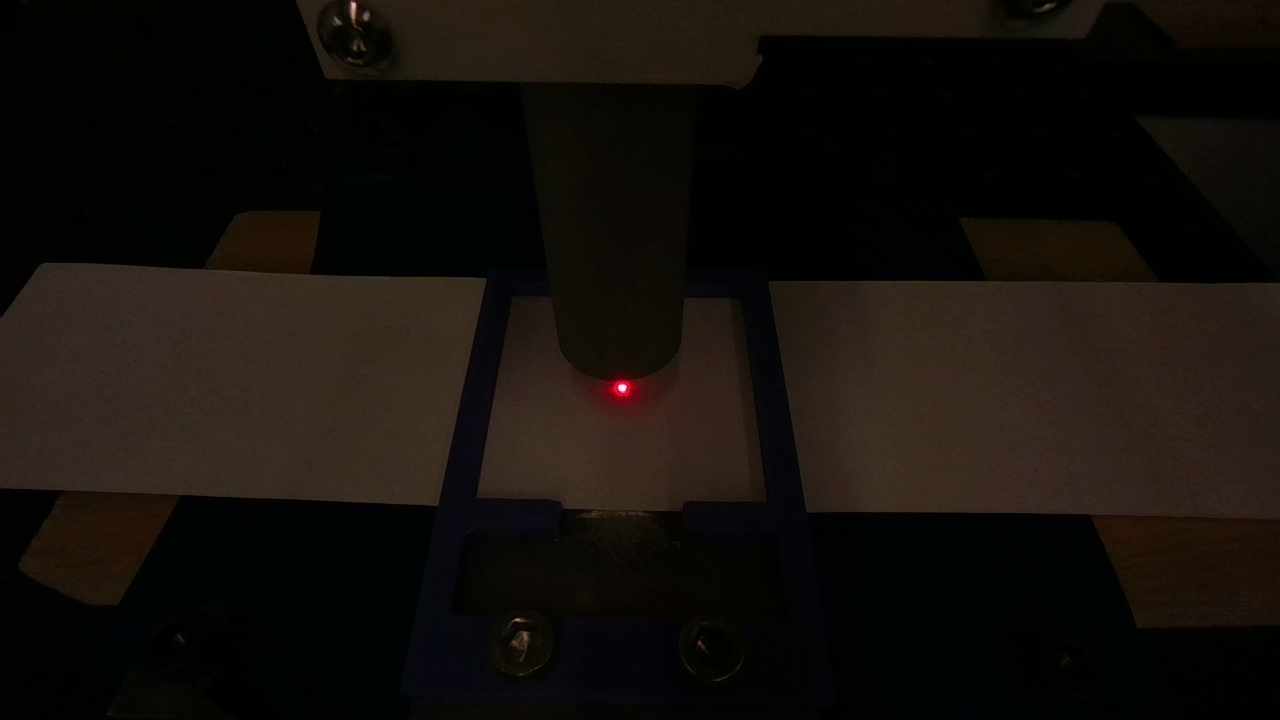
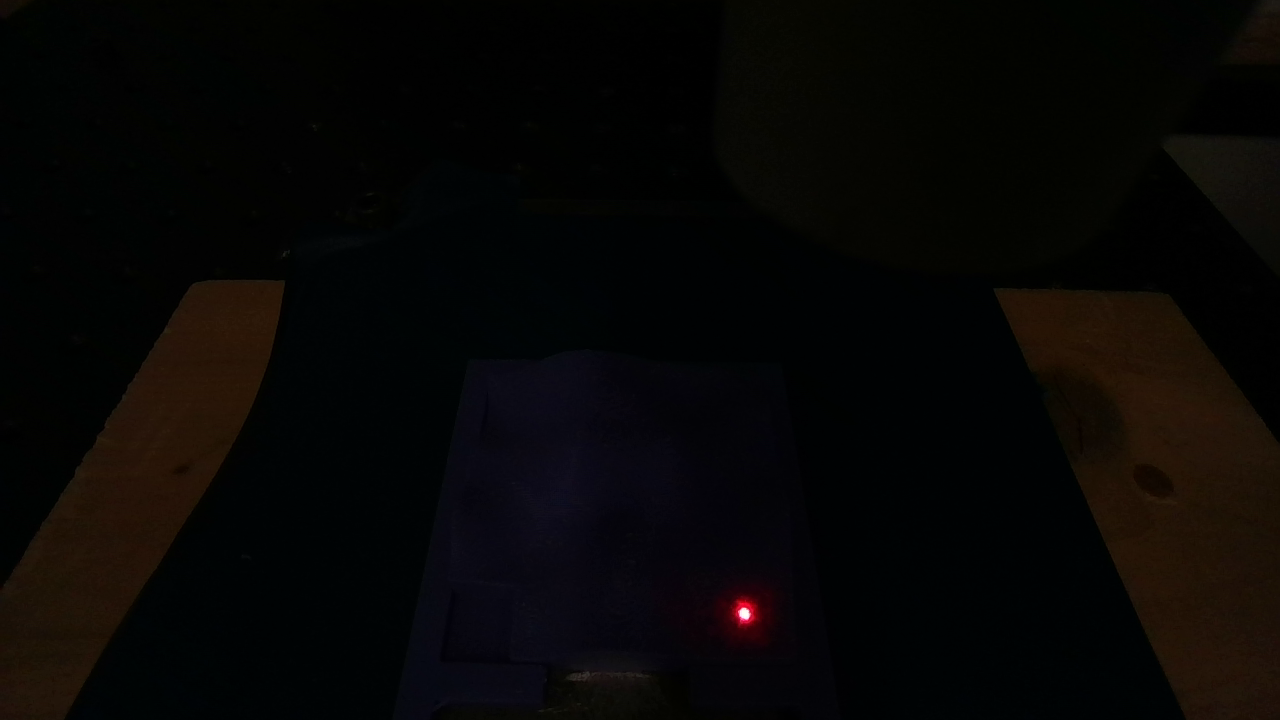
Focal Distance

diff --git a/surgical_system/py_src/focal_distance.py b/surgical_system/py_src/focal_distance.py
@@ -105,11 +105,19 @@ def main():
     # Setup all communication with hardware 
     camera_reg = setup()
 
+    # Create grid of 9x9 points on 50 x 50 mm block
+    gridSize = np.array([9, 9])
+    xPoints = (np.arange(gridSize[0]) - (gridSize[0] - 1) / 2) * 0.005
+    yPoints = (np.arange(gridSize[1]) - (gridSize[1] - 1) / 2) * 0.005
+    xValues, yValues = np.meshgrid(xPoints, yPoints)
+
     # Calculate the trajectory (moving downwards in z direction)
-    # TODO: Starting point is negative relative to "home position" for scanning
-    heights = np.arange(-0.06, 0.000, 0.001) #m
-    robot_path = np.zeros((len(heights), 3))
-    robot_path[:,2] = heights
+    # FIXME: Starting point is negative relative to home position csv for scanning
+    numPoints = gridSize[0] * gridSize[1]
+    heights = np.linspace(-0.06, 0.06, numPoints) #m
+    robot_path = np.hstack((xValues.reshape((-1, 1)), 
+                                    yValues.reshape((-1, 1)), 
+                                    heights.reshape((-1, 1))))
     traj = camera_reg.robot_controller.create_custom_trajectory(robot_path, 0.01)
 
     # Send robot to starting position (first point in trajectory)
@@ -129,28 +137,32 @@ def main():
         robot_pose[:3,-1] = robot_path[i, :]
         camera_reg.robot_controller.go_to_pose(robot_pose @ camera_reg.robot_controller.home_pose)
 
-        # Ensure robot is no longer moving before taking image (overkill)
-        time.sleep(0.25)
+        # Fire the laser (1/2 second)
+        camera_reg.fireLaser()
         
-        # Get RGB camera image
-        color_img = camera_reg.rgbd_cam.get_latest()['color']
-        # Determine diameter of laser spot
-        diameter = get_spot_diameter(color_img)
-        diameters[i] = diameter
+        # TODO/FIXME: Measure diameters of laser's aiming beam
+        # # Get RGB camera image 
+        # color_img = camera_reg.rgbd_cam.get_latest()['color']
+        # # Determine diameter of laser spot
+        # diameter = get_spot_diameter(color_img)
+        # diameters[i] = diameter
 
-    # Determine the focal distance based on smallest diameter and its corresponding height
-    min_diameter_idx = np.nanargmin(diameters)
-    min_diamter = diameters[min_diameter_idx]
-    focal_distance = heights[min_diameter_idx]
-    print(f"Focal distance is: {focal_distance} m with beam waist diameter of: {min_diamter} pixels")
-
-    # Simple plot of findings
-    laser_heights = (heights + 0.08) * 1000
-    plt.scatter(laser_heights, diameters)
-    plt.xlabel("Laser Height (mm)")
-    plt.ylabel("Diameter (pixels)")
-    plt.title("Laser Height vs. Laser Spot Diameter")
-    plt.savefig("laser_height_vs_diameter.png")
+    # Measure diameters of burn marks!!!
+    color_img = camera_reg.rgbd_cam.get_latest()['color']
+    
+    # TODO/FIXME: For measuring diameters of laser's aiming beam
+    # # Determine the focal distance based on smallest diameter and its corresponding height
+    # min_diameter_idx = np.nanargmin(diameters)
+    # min_diamter = diameters[min_diameter_idx]
+    # focal_distance = heights[min_diameter_idx]
+    # print(f"Focal distance is: {focal_distance} m with beam waist diameter of: {min_diamter} pixels")
+    # # Simple plot of findings
+    # laser_heights = (heights + 0.08) * 1000
+    # plt.scatter(laser_heights, diameters)
+    # plt.xlabel("Laser Height (mm)")
+    # plt.ylabel("Diameter (pixels)")
+    # plt.title("Laser Height vs. Laser Spot Diameter")
+    # plt.savefig("laser_height_vs_diameter.png")
 
 if __name__ == "__main__":
     main()

diff --git a/surgical_system/py_src/registration/transformations/depth_estimation.py b/surgical_system/py_src/registration/transformations/depth_estimation.py
@@ -323,7 +323,7 @@ class DepthEstimation():
 
     @staticmethod
     def create_dense_stack(homography_stack: dict,
-                        dz: float = 0.0001, # m
+                        dz: float = 0.00001, # m
                         extrapolate: bool = False):
 
         """
@@ -723,17 +723,17 @@ class DepthEstimation():
 
         # Extract X,Y,Z coordinates of points in STL file 
         # TODO/FIXME: point to CAD model stl file to compare to & register properly
-        mesh = trimesh.load("surgical_system/py_src/image_development/nine_peaks_3.stl")
+        mesh = trimesh.load("surgical_system/py_src/image_development/hills_5.stl")
         mesh.apply_scale(0.001)  # scale from mm to m 
-        # Rotate STL file about z axis -90 degrees to align with recon (nine peaks STLs)
-        angle = -np.pi/2
-        T = np.array([
-            [np.cos(angle), -np.sin(angle), 0, 0],
-            [np.sin(angle),  np.cos(angle), 0, 0],
-            [0,              0,             1, 0],
-            [0,              0,             0, 1]
-        ])
-        mesh.apply_transform(T)
+        # # Rotate STL file about z axis -90 degrees to align with recon (nine peaks STLs)
+        # angle = -np.pi/2
+        # T = np.array([
+        #     [np.cos(angle), -np.sin(angle), 0, 0],
+        #     [np.sin(angle),  np.cos(angle), 0, 0],
+        #     [0,              0,             1, 0],
+        #     [0,              0,             0, 1]
+        # ])
+        # mesh.apply_transform(T)
 
         # Perform ray casting to ensure x,y coordinates we compare are identical (considered with z error)
         # Define ray origins and directions above the mesh, pointing downwards
@@ -799,7 +799,7 @@ def main():
     DepthEstimation.plot_depth_surface(ax, depth_map, meta)
 
     # Calculate reconstruction error & plot STL alongside recon.
-    # DepthEstimation.calc_recon_error(ax, depth_map, meta)
+    DepthEstimation.calc_recon_error(ax, depth_map, meta)
 
     plt.show()
 

diff --git a/surgical_system/py_src/registration/calibration.py b/surgical_system/py_src/registration/calibration.py
@@ -547,7 +547,8 @@ def main():
     # FIMXE: Anything <= 10 mm for heights causes infinite world reprojection error
     # Note: Took average of 3 measurements from Faro arm for calibration block heights 
     # heights = np.array([1.004, 1.989, 10.087, 19.955, 49.807]) 
-    heights = np.array([49.807, 60]) 
+
+    heights = np.array([1.989, 19.955]) 
     heights = heights / 1000.0 # mm -> m
     depth_path = "homography_stack.npz"
     stack = camera_reg.rgb_multi_layer_scan(heights, file_name= depth_path)
@@ -558,7 +559,7 @@ def main():
     # squareSize: 0.002 for 25 x 25 mm block scans 24 x 24 mm, 0.0019 ~ 23 mm x 23 mm, 0.0018 ~ 21.5 mm^2)
         # Note: decrease squareSize to avoid drifting over edge due to radius of aiming beam
     # TODO: Test changing squareSize back to 0.002 and see if doesn't drift over edge with new trajectory controller
-    exp_depth_scan(camera_reg, gridShape = np.array([25, 25]), squareSize = 0.0019)
+    exp_depth_scan(camera_reg, gridShape = np.array([25, 25]), squareSize = 0.0018)
     
     # Shut down camerastreams
     rgbd_cam.stop_stream()

diff --git a/surgical_system/py_src/registration/cameraRegistration.py b/surgical_system/py_src/registration/cameraRegistration.py
@@ -526,9 +526,9 @@ class Camera_Registration(System_Calibration):
                                      squareSize=0.02)
             homography_stack[z] = H
 
-            # Calculate reprojection error
-            gridSize = np.array([9, 9])
-            reprojection_errors = self.reprojection_test(H, gridSize)
+            # # TODO: Calculate reprojection error
+            # gridSize = np.array([9, 9])
+            # reprojection_errors = self.reprojection_test(H, gridSize)
 
             
             
